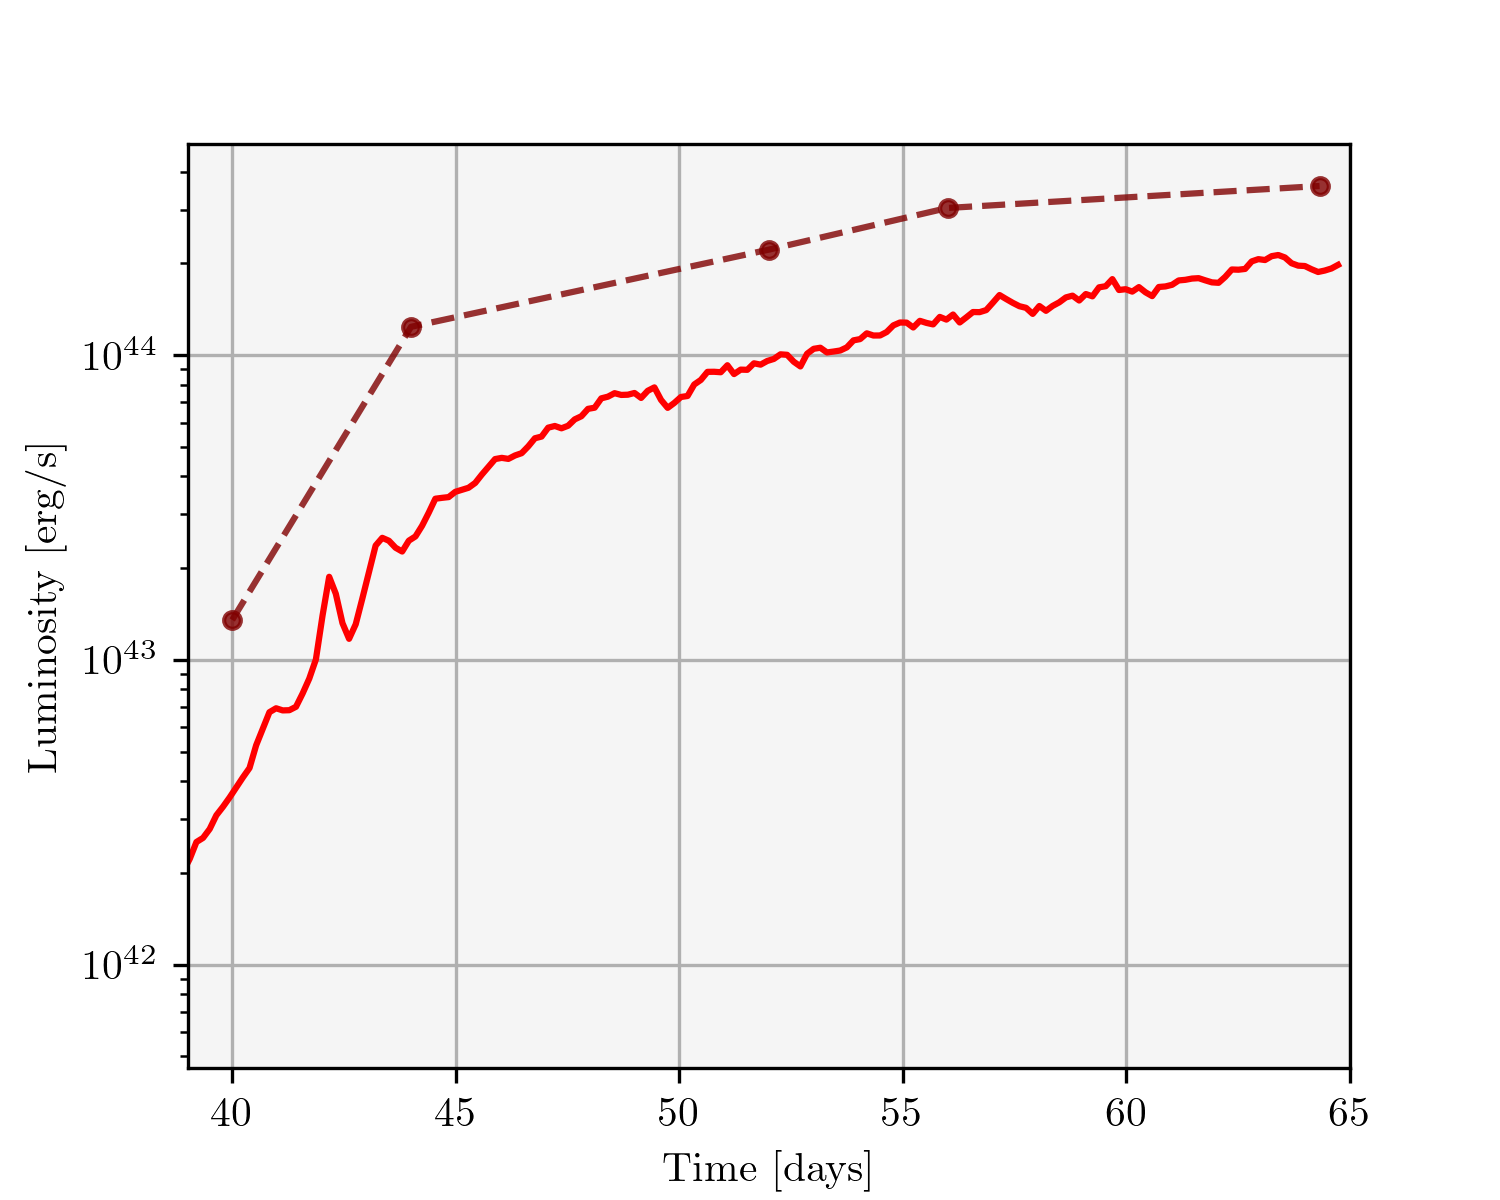
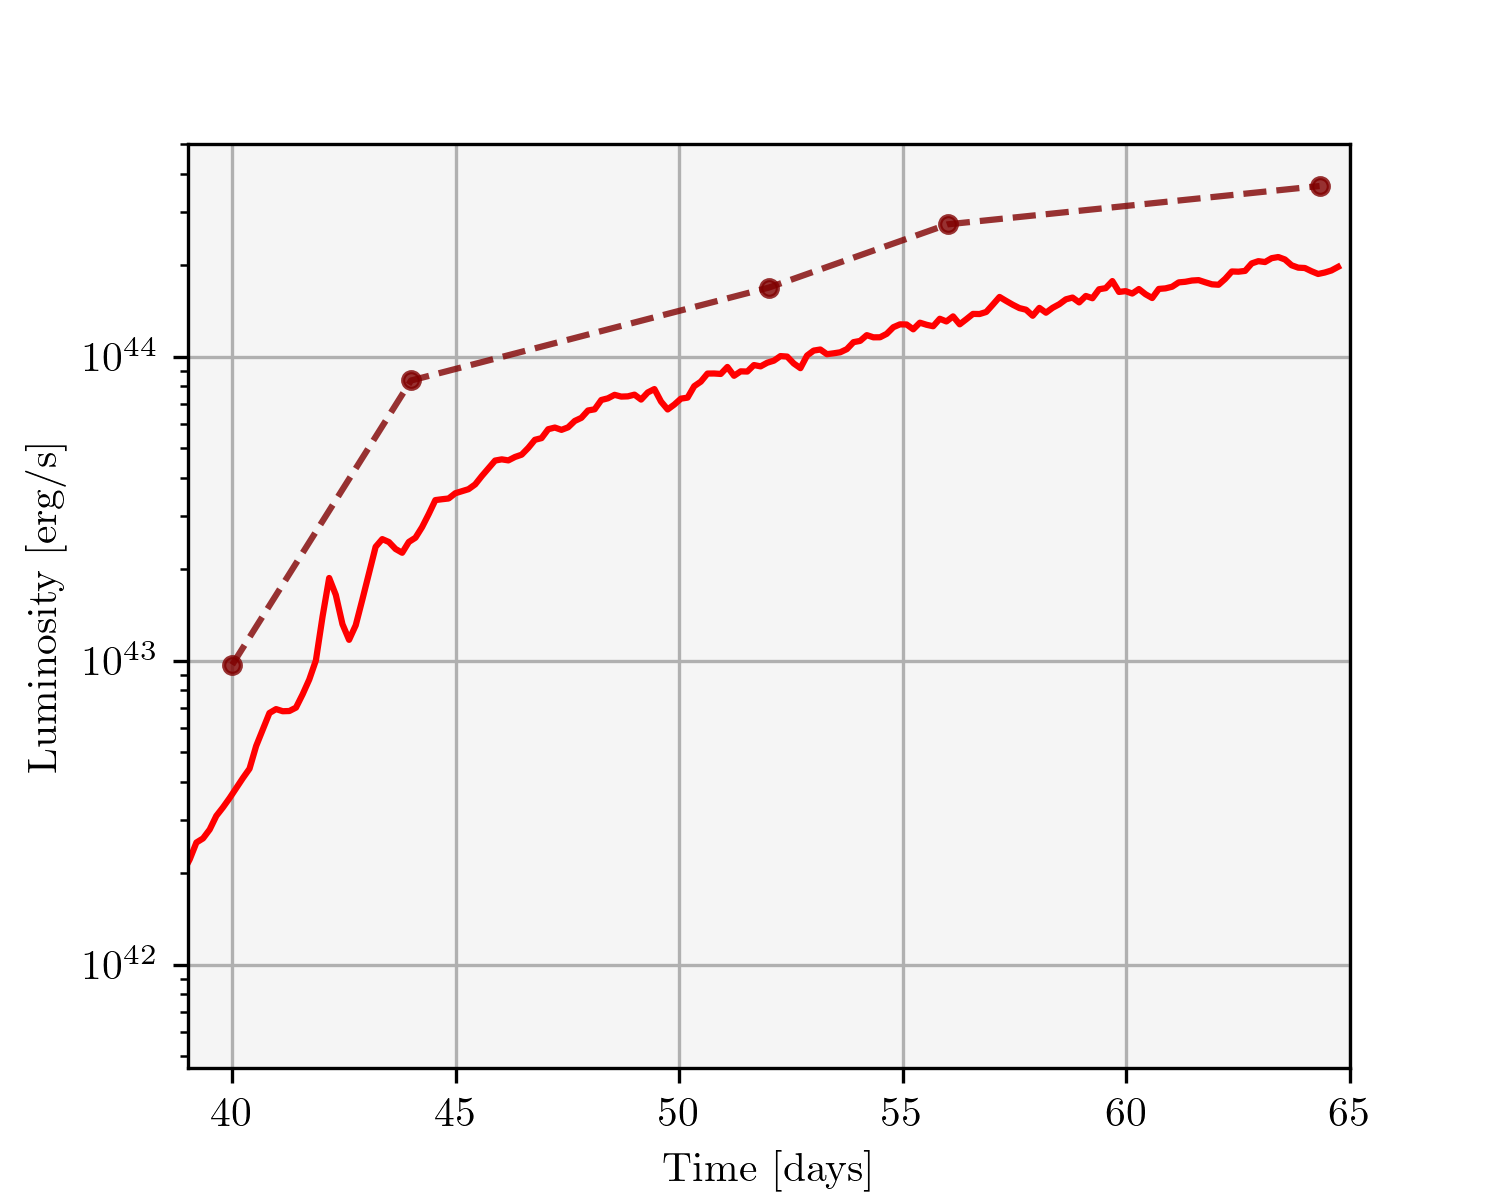
convergnce check is nice!

diff --git a/src/Luminosity/red_tree.py b/src/Luminosity/red_tree.py
@@ -55,8 +55,8 @@ def select_fix(m):
             snapshots = np.arange(844, 1008 + 1)
             days = [1.00325,1.007,1.01075,1.01425,1.018,1.02175,1.0255,1.029,1.03275,1.0365,1.04025,1.04375,1.0475,1.05125,1.055,1.0585,1.06225,1.066,1.06975,1.07325,1.077,1.08075,1.0845,1.088,1.09175,1.0955,1.09925,1.10275,1.1065,1.11025,1.114,1.1175,1.12125,1.125,1.12875,1.13225,1.136,1.13975,1.1435,1.147,1.15075,1.1545,1.15825,1.16175,1.1655,1.16925,1.173,1.1765,1.18025,1.184,1.18775,1.19125,1.195,1.19875,1.2025,1.206,1.20975,1.2135,1.21725,1.22075,1.2245,1.22825,1.232,1.2355,1.23925,1.243,1.24675,1.25025,1.254,1.25775,1.2615,1.265,1.26875,1.2725,1.27625,1.27975,1.2835,1.28725,1.291,1.2945,1.29825,1.302,1.30575,1.30925,1.313,1.31675,1.3205,1.324,1.32775,1.3315,1.33525,1.33875,1.3425,1.34625,1.35,1.3535,1.35725,1.361,1.36475,1.36825,1.372,1.37575,1.3795,1.383,1.38675,1.3905,1.39425,1.39775,1.4015,1.40525,1.409,1.4125,1.41625,1.42,1.42375,1.42725,1.431,1.43475,1.4385,1.442,1.44575,1.4495,1.45325,1.45675,1.4605,1.46425,1.468,1.4715,1.47525,1.479,1.48275,1.48625,1.49,1.49375,1.4975,1.501,1.50475,1.5085,1.51225,1.51575,1.5195,1.52325,1.527,1.5305,1.53425,1.538,1.54175,1.54525,1.549,1.55275,1.5565,1.56,1.56375,1.5675,1.57125,1.57475,1.5785,1.58225,1.586,1.5895,1.59325,1.597,1.60075,1.60425,1.608]
         else:
-            snapshots = [844, 881, 925, 950, 1008] 
-            days = [1, 1.1, 1.3, 1.4, 1.608] 
+            snapshots = [844, 881, 925, 950]#, 1008] 
+            days = [1, 1.1, 1.3, 1.4]#, 1.608] 
     return snapshots, days
 
 def find_neighbours(fix, m, rays_index_photo):
@@ -233,11 +233,11 @@ def flux_calculator(grad_E, selected_energy,
     print('Flux: ', flux_count) 
     return f
 
-def doer_of_thing(fix, m):
+def doer_of_thing(fix, m, num = 5000):
     """
     Gives bolometric L and R_ph (of evry observer)
     """
-    tree_indexes, rays_T, rays_den, _, radii, _ = ray_maker(fix, m)
+    tree_indexes, rays_T, rays_den, _, radii, _ = ray_maker(fix, m, num)
     _, _, rays_photo, rays_index_photo = get_photosphere(rays_T, rays_den, radii, tree_indexes)
 
     #Find the neighbour to photosphere and save its quantities
@@ -293,7 +293,7 @@ if __name__ == "__main__":
             np.savetxt('red_backup_save'+ str(m) + '.txt', (days, lums))
             np.savetxt(pre + 'tde_comparison/data/alicered'+ str(m) + '.txt', (days, lums))
         else:
-             with open('data/red/SHIFTnew_reddata_m'+ str(m) + '.txt', 'a') as flum:
+             with open('data/red/new_reddata_m'+ str(m) + '.txt', 'a') as flum:
                  flum.write('# t/t_fb\n') 
                  flum.write(' '.join(map(str, days)) + '\n')
                  flum.write('# Lum \n') 

diff --git a/src/Calculators/ray_tree.py b/src/Calculators/ray_tree.py
@@ -52,7 +52,6 @@ def ray_maker(fix, m, num = 5000):
     else:
         # Import
         X = np.load( str(m) + '/'  + fix + '/CMx_' + fix + '.npy')
-        X -= Rt
         Y = np.load( str(m) + '/'  + fix + '/CMy_' + fix + '.npy')
         Z = np.load( str(m) + '/'  + fix + '/CMz_' + fix + '.npy')
         Vol = np.load( str(m) + '/'  + fix + '/Vol_' + fix + '.npy')
@@ -60,6 +59,7 @@ def ray_maker(fix, m, num = 5000):
         Den = np.load( str(m) + '/'  + fix + '/Den_' + fix + '.npy')
         Rad = np.load( str(m) + '/'  +fix + '/Rad_' + fix + '.npy')
     
+    X -= Rt
     # Convert Energy / Mass to Energy Density in CGS
     Rad *= Den 
     Rad *= en_den_converter
